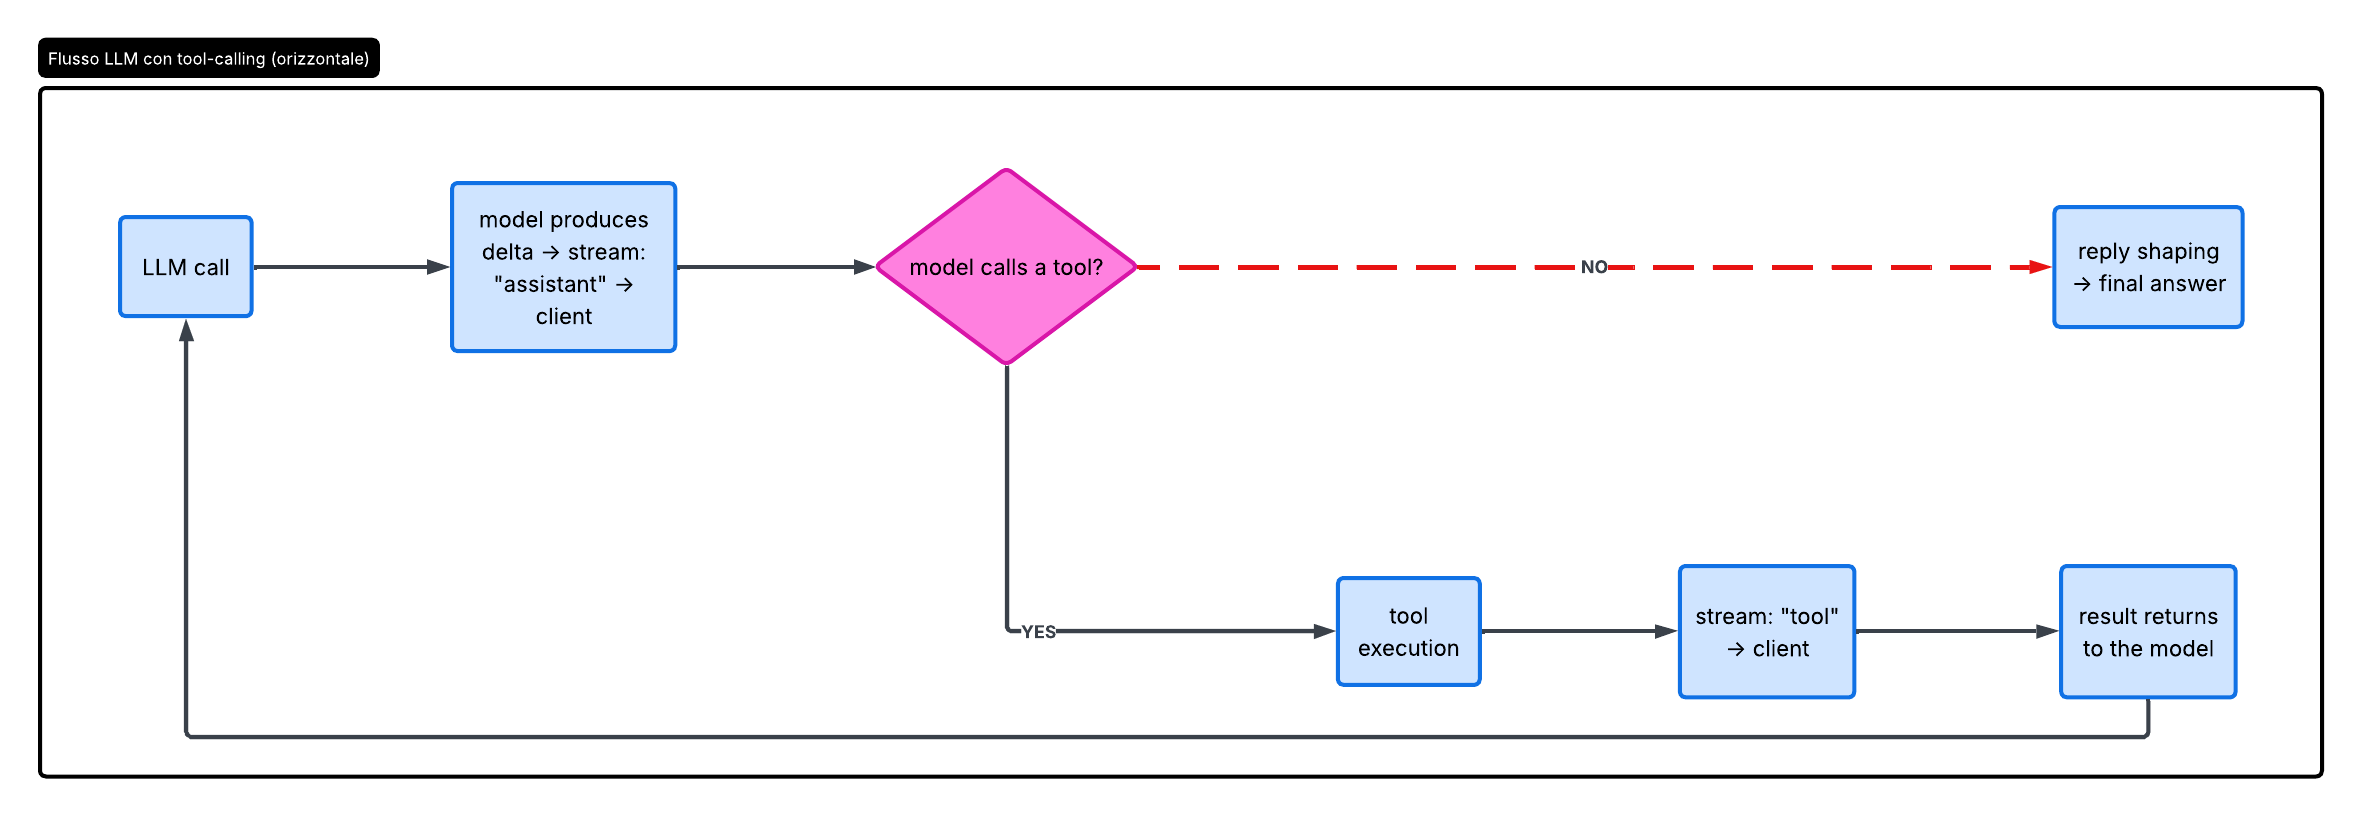
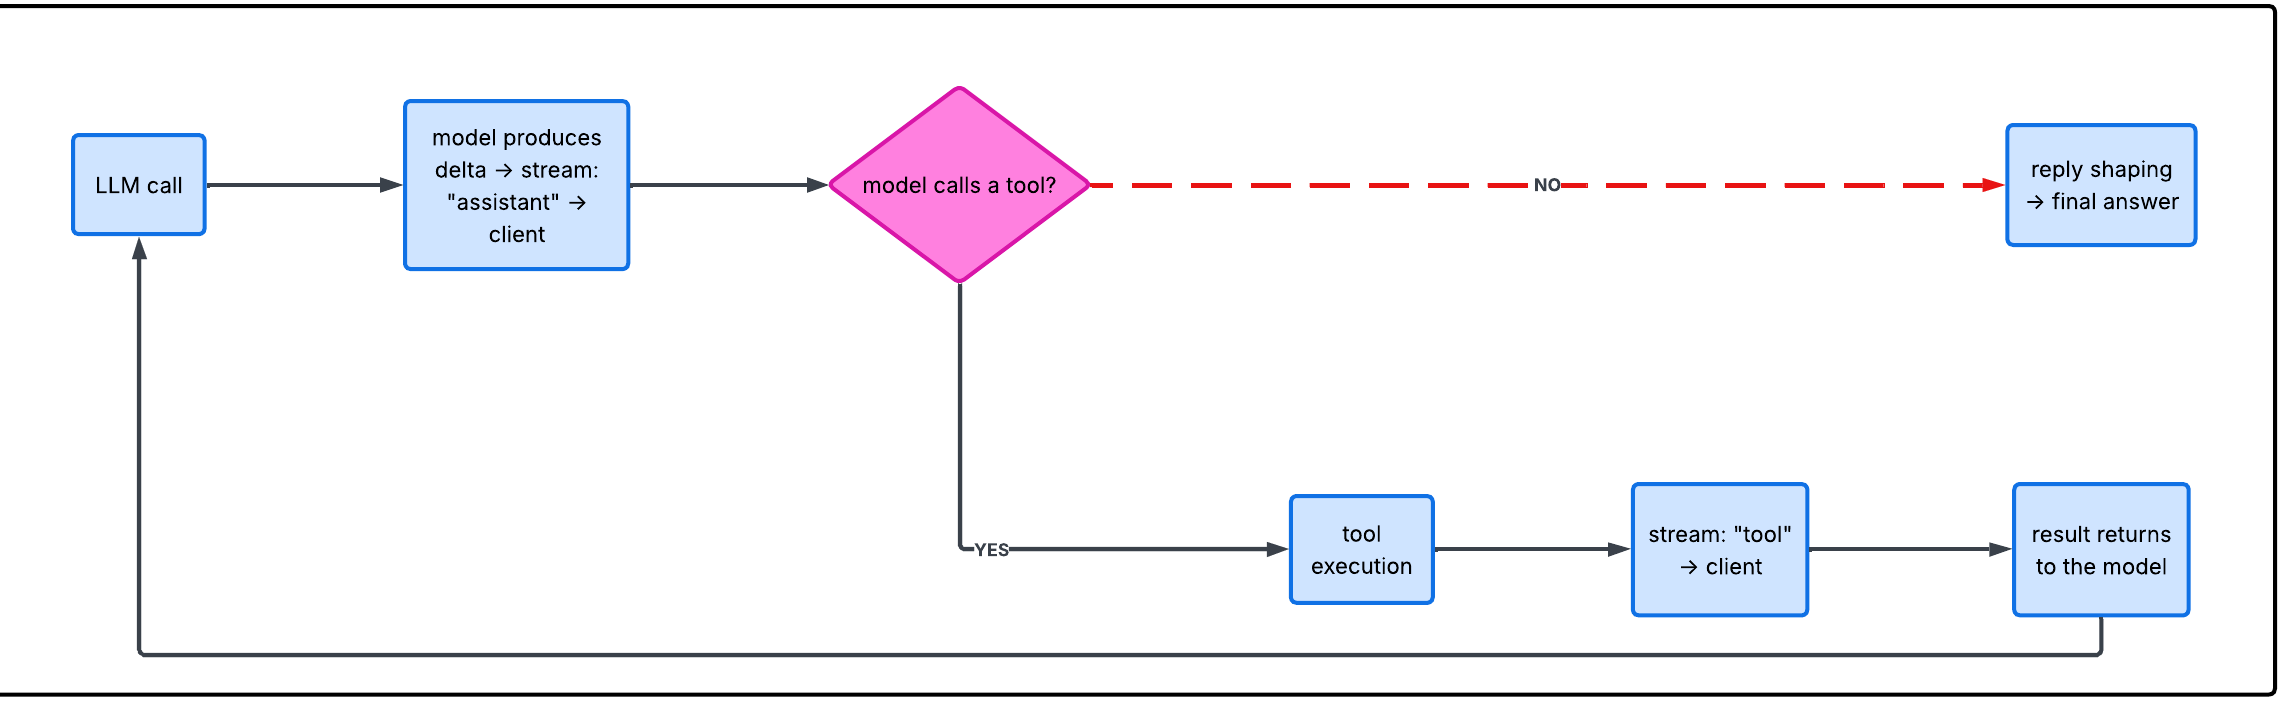
fix

Changed region(s): [[0.0, 0.0, 1.0, 0.9958], [0.5608, 0.6846, 0.6231, 0.7157]]

diff --git a/openclaw-report.md b/openclaw-report.md
@@ -121,7 +121,7 @@ Each client signs a challenge nonce with its device identity. New devices requir
 ![Lifecycle](images/auth.jpg)
 
 ---
-
+The client is any control interface the operator uses to communicate with the Gateway via WebSocket. Specifically, this could be a Mac app, the CLI, the web admin, or an automation script. Messaging channels like Telegram, which are providers, are not clients, nor are nodes like iPhone or Android, which connect with a different role.
 ## 3. Agent Loop
 
 The Agent Loop is the complete and real execution of an agent: **intake → context assembly → model inference → tool execution → streaming replies → persistence.**
